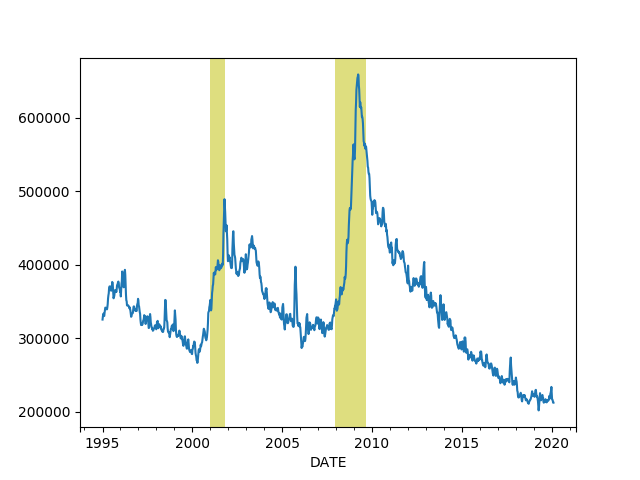
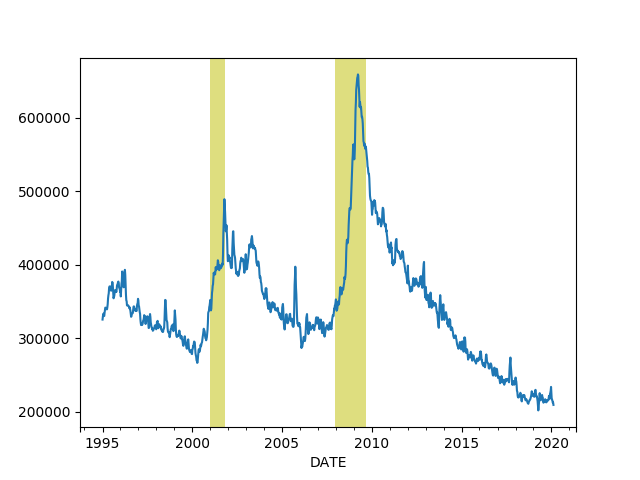
-

diff --git a/en/2019/05/stats.md b/en/2019/05/stats.md
@@ -240,10 +240,10 @@ plt.savefig('initial-claims.png')
 ```text
             IC4WSA
 DATE              
-2020-01-18  216250
 2020-01-25  214750
 2020-02-01  212000
-2020-02-08  212000
+2020-02-08  212250
+2020-02-15  209000
 ```
 
 ![](initial-claims.png)
